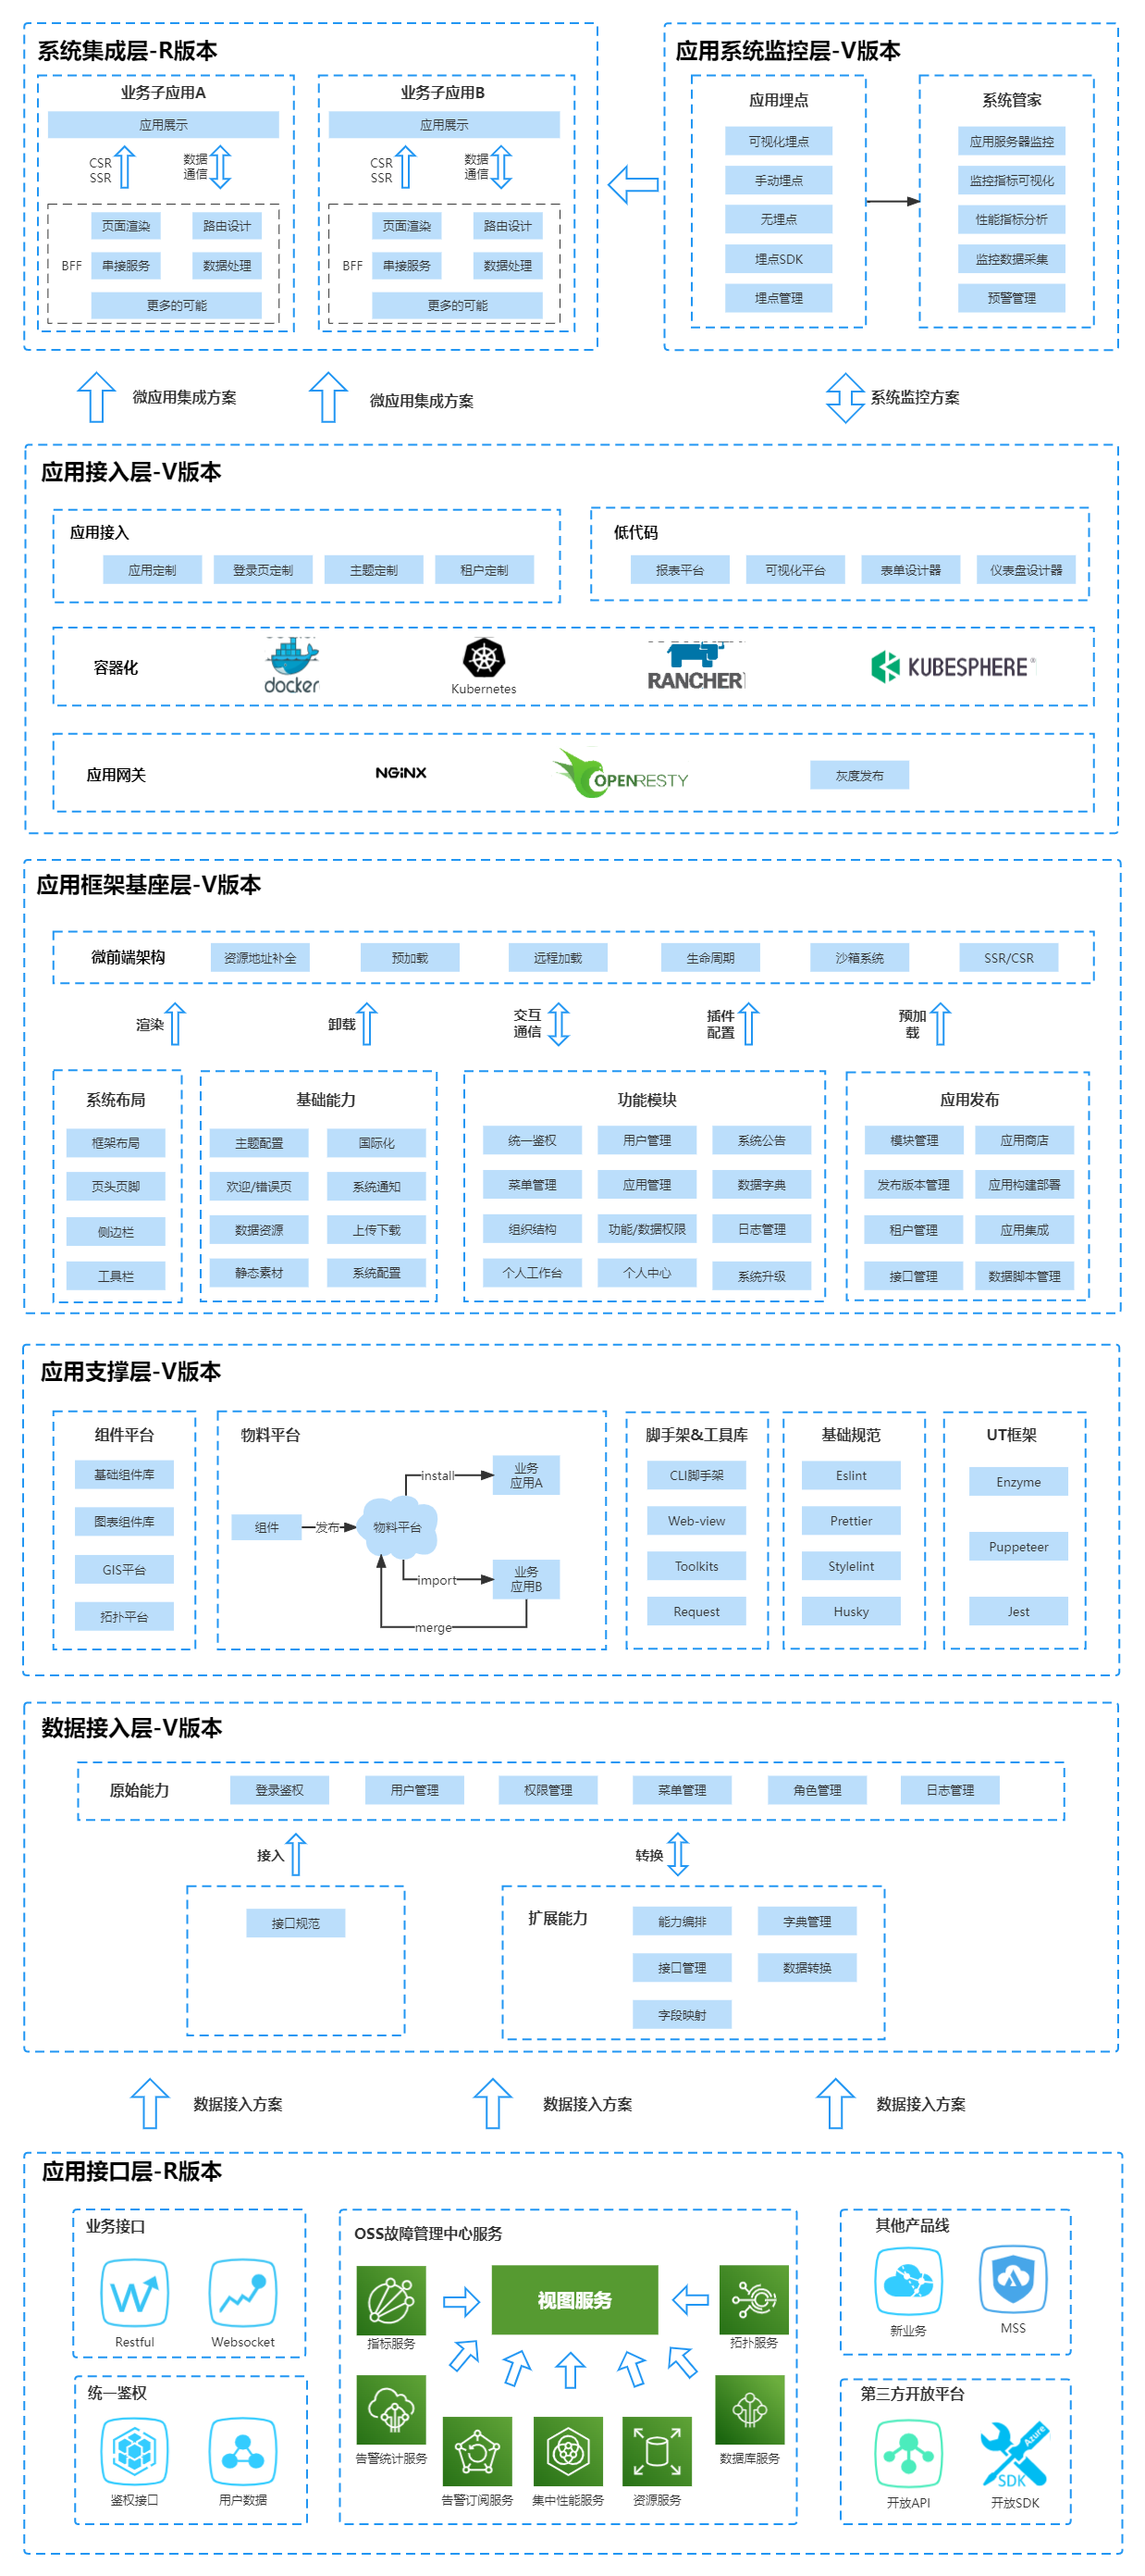
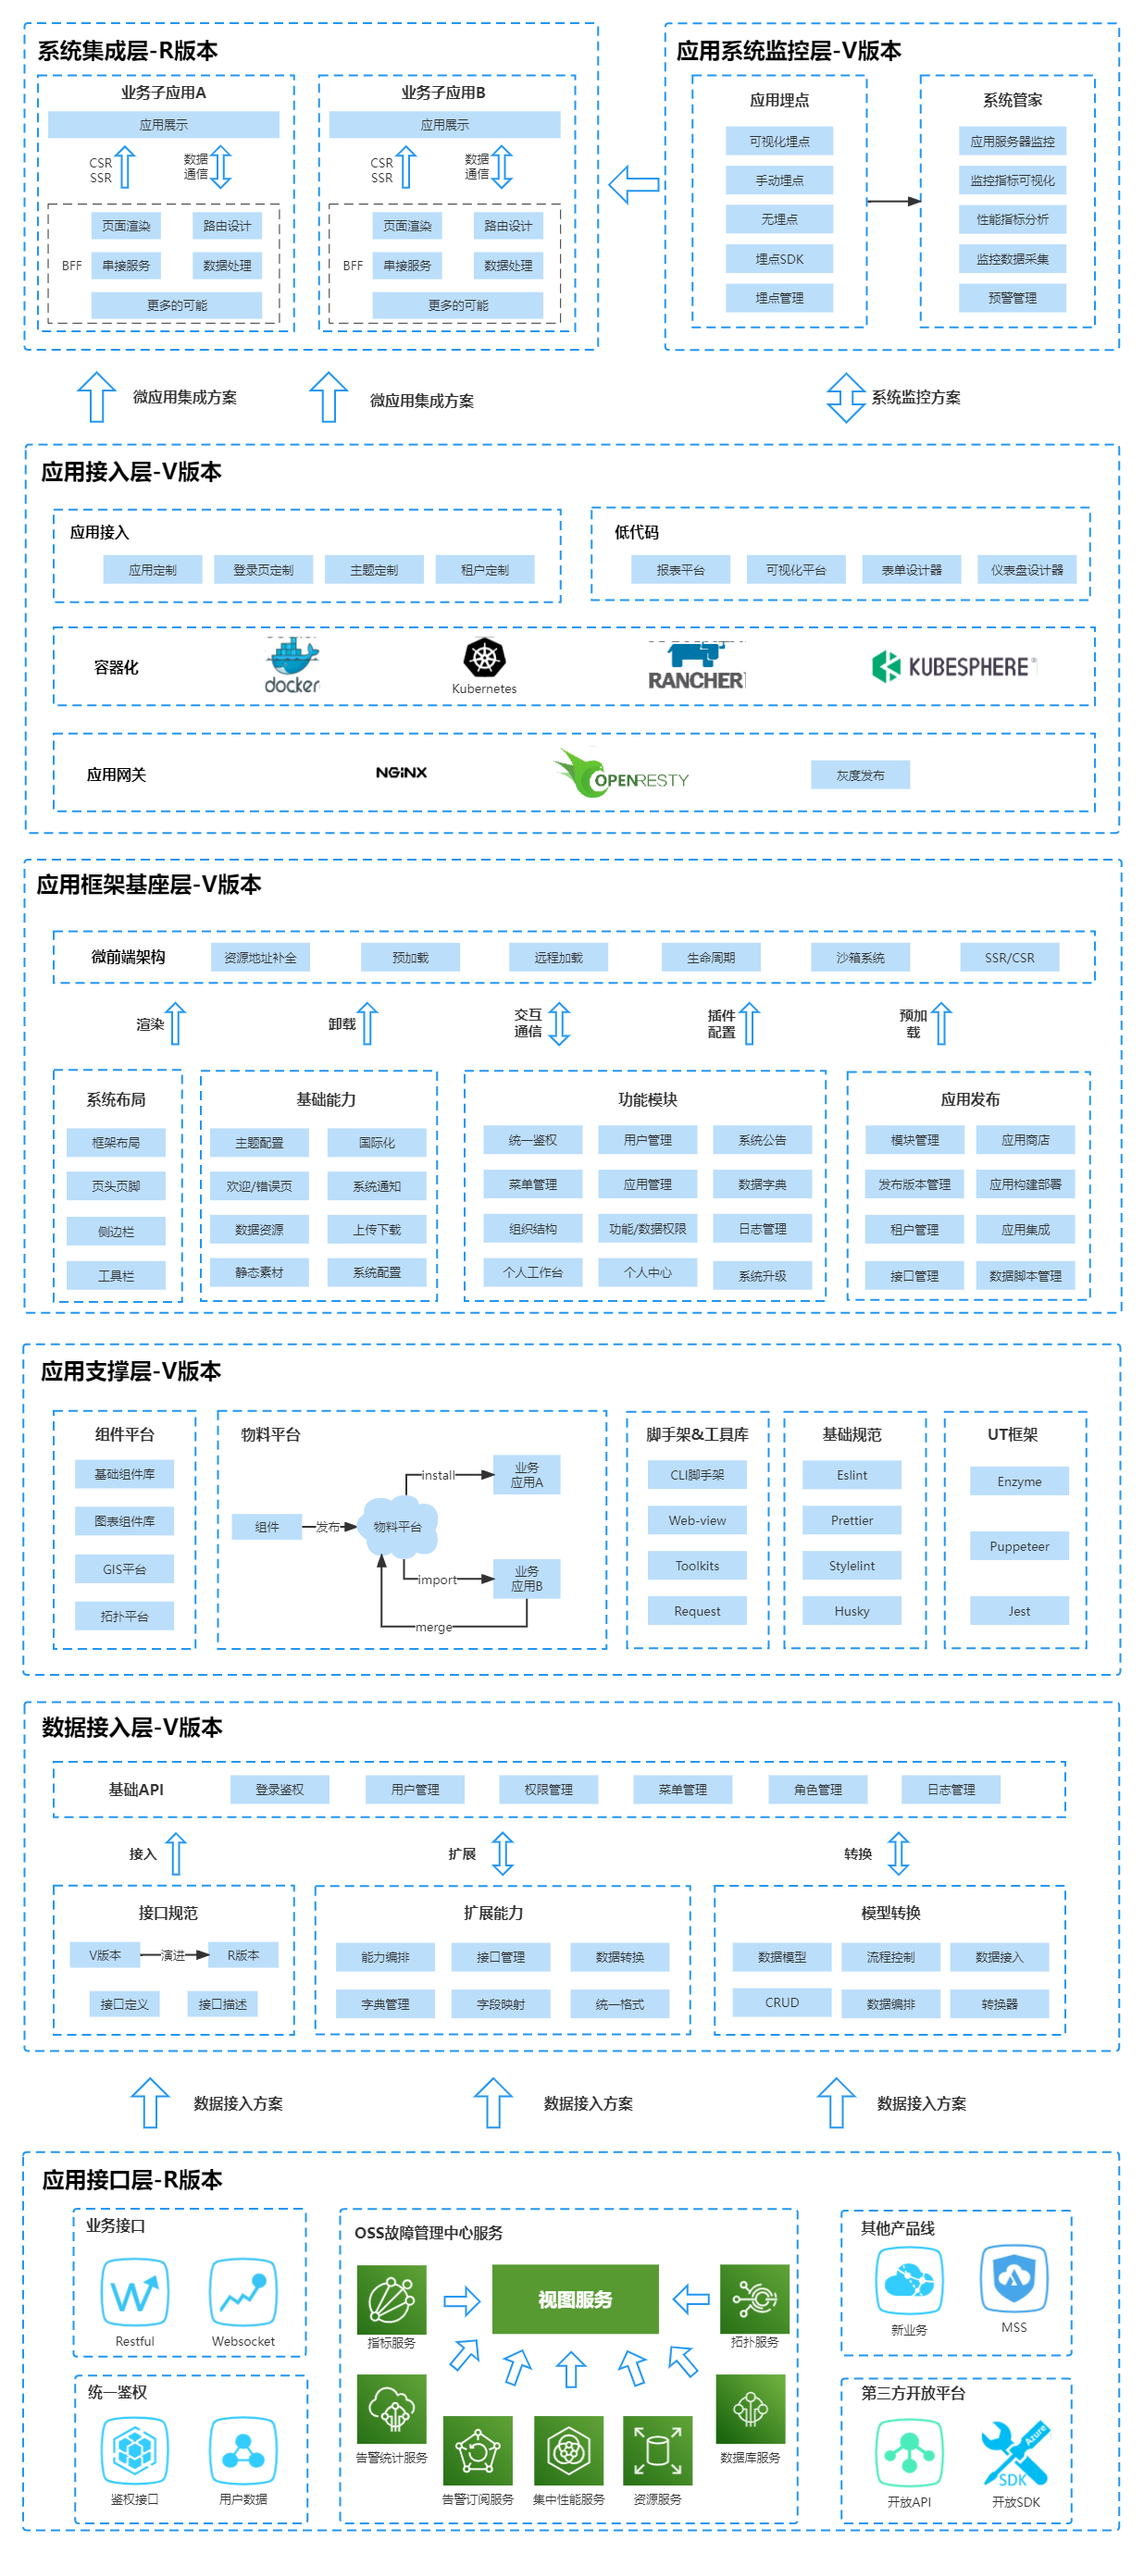
feat: 未换行，增加两个空格。修改接入层内容

diff --git a/docs/InterfaceArchitecture.md b/docs/InterfaceArchitecture.md
@@ -3,70 +3,142 @@
 ![设计架构图](../images/接入层设计架构.png)
 
 
-# 接口层介绍
+# 接口层基础介绍
 
-### V版本接口
-#### 基础能力
-##### 1.介绍
+## 基础能力
+### 1.介绍
 `V版本接口层` 提供V版本应用的基础API，该部分与V版本框架独立。在使用V版本时，无需开发支持直接使用基础API功能，也可根据接口规范对接口进行扩展，同时V版本接口层提供数据编排能力，支持其他已有系统通过配置快速接入V版本功能
-##### 2.优点
+### 2.优点
 - 接入更简单：只需进行配置，完成框架接入
 - 开发更简单：按照接口规范进行自定义开发
 - 流程更简单：V版本接口支持多种接入方式
- 
-##### 3.接口规范地址
+
+### 3.接口规范地址
 http://10.10.2.8:9091/group/181
 
 
-#### 对内接口
-##### 1.模块API
-###### 登录鉴权
-功能描述：提供用户基本的登录权限功能，可根据第三方接口进行动态调整
+## 对内接口
+
+- 登录鉴权  
+功能描述：提供用户基本的登录权限功能，可根据第三方接口进行动态调整  
 接口定义：http://10.10.2.8:9091/project/267/interface/api
-###### 应用管理
-功能描述：V版本将根据不同的应用ID，保存相关信息。例：登录页配置信息，系统名称，系统Logo，系统Icon。
+-  应用管理  
+功能描述：V版本将根据不同的应用ID，保存相关信息。例：登录页配置信息，系统名称，系统Logo，系统Icon。  
 接口定义：http://10.10.2.8:9091/project/261/interface/api
-###### 用户管理
-功能描述：用于管理用户列表数据，提供默认的基础字段，支持扩展字段自定义。提供在线用户数据，监控当前系统中活跃用户
+- 用户管理  
+功能描述：用于管理用户列表数据，提供默认的基础字段，支持扩展字段自定义。提供在线用户数据，监控当前系统中活跃用户  
 接口定义：http://10.10.2.8:9091/project/255/interface/api
-###### 菜单管理
-功能描述：为框架提供菜单维护的接口，根据不用的应用，返回不同的菜单
+- 菜单管理  
+功能描述：为框架提供菜单维护的接口，根据不用的应用，返回不同的菜单  
 接口定义：http://10.10.2.8:9091/project/255/interface/api
-###### 权限管理
-功能描述：管理按钮权限的相关接口
+- 权限管理  
+功能描述：管理按钮权限的相关接口  
 接口定义：http://10.10.2.8:9091/project/255/interface/api
-###### 角色管理
-功能描述：角色菜单权限分配、设置角色按机构进行数据范围权限划分。
+- 角色管理  
+功能描述：角色菜单权限分配、设置角色按机构进行数据范围权限划分。  
 接口定义：http://10.10.2.8:9091/project/255/interface/api
-###### 部门管理
-功能描述：配置系统组织机构（公司、部门、小组），将部门进行树结构展现。
+- 部门管理  
+功能描述：配置系统组织机构（公司、部门、小组），将部门进行树结构展现。  
 接口定义：http://10.10.2.8:9091/project/255/interface/
-###### 日志管理
+- 日志管理  
 功能描述：记录操作日志，系统正常操作日志记录和查询，系统异常信息日志记录和查询。
-记录登录日志，系统登录日志记录查询包含登录异常。
+记录登录日志，系统登录日志记录查询包含登录异常。  
 接口定义：http://10.10.2.8:9091/project/258/interface/api
 
 
-#### 对外能力
-##### 介绍
-接口层对外提供适配能力，转换能力，数据编排能力，R版本可根据情况选择具体方案。
-方案1：使用V版本表结构，接口层定义，无需开发，直接使用
-方案2：不使用V版本表结构，使用原有表结构，接口层将视图模型映射相应字段
+## 对外能力
+### 介绍
+`接口层对外提供适配能力，转换能力，数据编排能力，R版本可根据情况选择具体方案。`  
+
+方案1：使用V版本表结构与接口层定义，无需开发，直接使用  
+方案2：不使用V版本表结构，使用原有表结构，接口层将视图模型映射相应字段  
 方案3：使用原有系统接口，接口层将接口接入，并完成基础数据与扩展数据的转换
-##### 核心能力
-###### 统一规范
+
+
+# 接口层核心功能
+![核心功能流程图](../images/接入层-核心功能流程图.png)
+## 统一规范
 统一的接口规范无论对前端还是后端都比较重要。为了解决这个问题，接口层对外提供统一的规范，R版本使用者可根据规范完成相关能力的开发
 规范内容：
-###### 数据模型
+```
+{
+    code:0/1/2
+    message:'提示信息'
+    messageVisible:true/false
+    data:{}
+}
+```
+## 数据模型
 通过对数据模型的定义，数据接入层可直接进行CRUD增删改查，结合数据转换完成接口适配能力
-###### 字段映射
-在接入第三方接口时，接入层支持对字段进行映射关系关联。将不满足基础数据格式的数据进行字段映射处理，转换为实际需要的返回值格式
-###### 数据转换
-通过转换器与字典，对模型数据或接口数据
-###### 数据扩展
-接口层将数据分为基础数据和扩展数据，基础数据为框架提供默认能力的数据。在此基础上，增加扩展数据，满足R版本所需数据
 
-##### 规范样例
+## 字段映射
+在接入第三方接口时，接入层支持对字段进行映射关系关联。将不满足基础数据格式的数据进行字段映射处理，转换为实际需要的返回值格式
+
+示例  
+```
+{
+    "id": "1",
+    "loginId": "admin1"
+}
+```
+通过字段映射，可以将id转换为userId,loginId转换为loginName。这里仅需要描述一个对应关系，接口层自动完成该步骤
+
+```
+{
+    "userId": "1",
+    "loginName": "admin1"
+}
+```
+
+## 数据转换
+通过转换器与字典，对模型数据或接口数据  
+
+示例  
+```
+{
+    "id": "1",
+    "loginId": "admin1",
+    "status":"1"
+}
+```
+通过数据转换，此示例将 "status":"1" 转换为 "status":"正常"
+
+```
+{
+    "id": "1",
+    "loginId": "admin1",
+    "status":"正常"
+}
+```
+## 数据扩展
+接口层将数据分为基础数据和扩展数据，基础数据为框架提供默认能力的数据。在此基础上，增加扩展数据，满足R版本所需数据  
+
+示例  
+```
+{
+    "id": "1",
+    "loginId": "admin1",
+    "status":"1",
+    "zoneId":"1111",
+    "zoneName":"区域名称",
+}
+```
+通过数据扩展功能，此示例将基础字段与扩展字段分开
+
+```
+{
+    "id": "1",
+    "loginId": "admin1",
+    "status":"1",
+    "ExtendField":{
+        "zoneId":"1111",
+        "zoneName":"区域名称",
+  }
+}
+```
+
+
+## 规范样例--结合以上功能提供规范
 用户信息规范示例
 ```
 {
@@ -100,7 +172,7 @@ R版本原始数据
 ```
 
 
-R版本 -> V版本代码转换方案描述
+R版本 -> V版本代码转换==方案描述==
 ```
 {
     "userId": {
